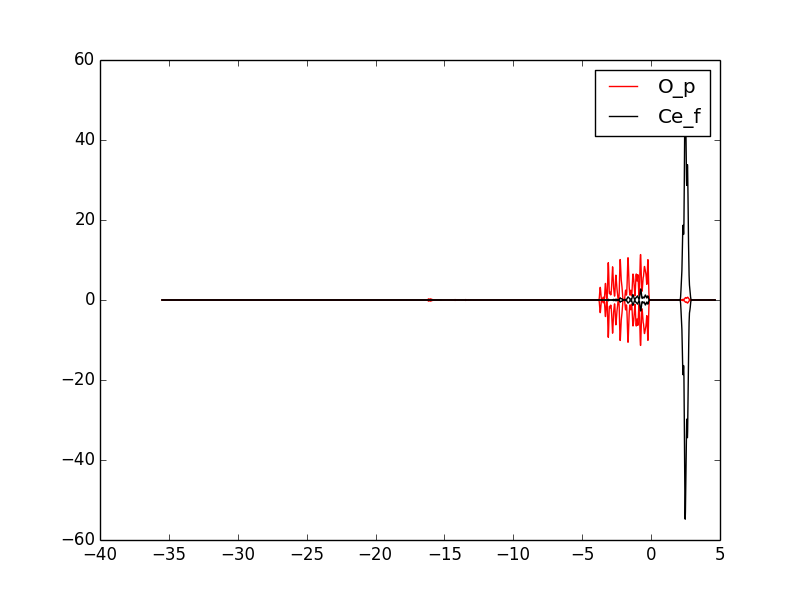
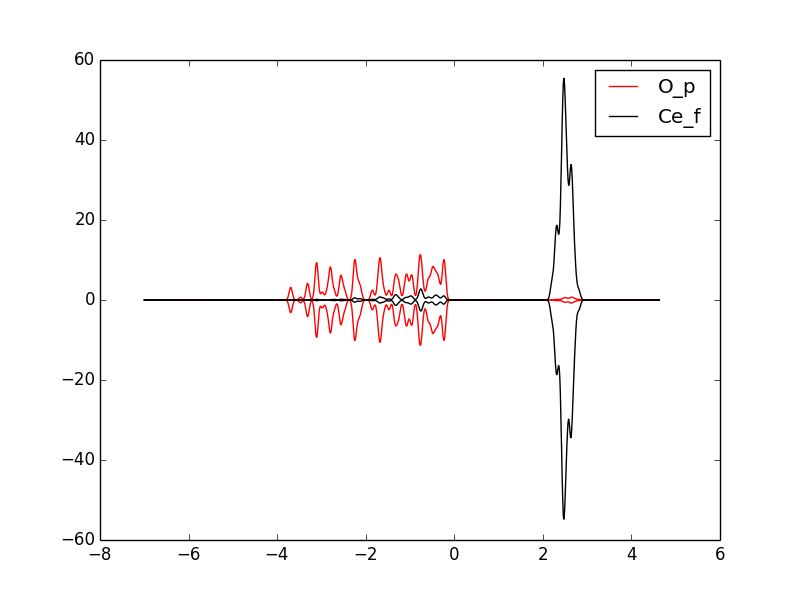
finish module writing for dos code

diff --git a/VASP/dos-lib/doslib/plot.py b/VASP/dos-lib/doslib/plot.py
@@ -14,6 +14,9 @@ class plot:
       self.dos=control.dos
       self.par_symbol=['s','p','d','f']
   def pdos(self):
+      if not self.control.run_pdos:
+         return 0
+
       dos=self.dos
       atom=self.atom
       loc_up=dos.loc_up
@@ -21,16 +24,9 @@ class plot:
       control=self.control
       simple_line_plot=self.simple_line_plot
 
-      par_symbol=self.par_symbol
-      if atom.symbol:
-        for i in range(4):
-          par_symbol[i]=atom.symbol[dos.par_element[i]]+"_"+par_symbol[i]
-      else:
-        for i in range(4):
-          par_symbol[i]="atomtype="+str(dos.par_element[i])+" "+par_symbol[i]+"_orbital"
-    
     #plot each orbital
-      if all(x!=-1 for x in dos.par_element):
+      if any(x!=-1 for x in dos.par_element):
+        par_symbol=self.par_symbol
         y=[]
         line_label=[]
         line_color=['y','y','r','r','b','b','k','k']
@@ -39,7 +35,10 @@ class plot:
             y+=[dos.par_orbital[i][:,0],dos.par_orbital[i][:,1]]
           else:
             y+=[None,None]
-          line_label+=[par_symbol[i],None]
+          if atom.symbol:
+            line_label+=[atom.symbol[dos.par_element[i]]+"_"+par_symbol[i],None]
+          else:
+            line_label+=["atomtype="+str(dos.par_element[i])+" "+par_symbol[i]+"_orbital",None]
         simple_line_plot("pdf_orbital",dos.Xenergy,y,loc_down,loc_up,line_color,line_label)
         del y, line_label, line_color
     
@@ -51,17 +50,18 @@ class plot:
         simple_line_plot("d_decompose",dos.Xenergy,y,loc_down,loc_up,line_color,line_label)
         del y, line_label, line_color
     
-      y=[]
-      line_label=[]
-      line_color=[]
-      for i in range(atom.ntype):
-        y+=[dos.perspecies[:,i]]
-        line_label+=["species "+str(i)]
-        line_color+=[None]
-      if atom.symbol:
-        line_label+=[atom.symbol[i]]
-      simple_line_plot("perspecies",dos.Xenergy,y,loc_down,loc_up,line_color,line_label)
-      del y, line_label, line_color
+      if self.control.perspecies:
+        y=[]
+        line_label=[]
+        line_color=[]
+        for i in range(atom.ntype):
+          y+=[dos.perspecies[:,i]]
+          line_label+=["species "+str(i)]
+          line_color+=[None]
+        if atom.symbol:
+          line_label+=[atom.symbol[i]]
+        simple_line_plot("perspecies",dos.Xenergy,y,loc_down,loc_up,line_color,line_label)
+        del y, line_label, line_color
     
   def plot_tot_dos(self):
       y=[self.dos.dos0[:,0],self.dos.dos0[:,1]]

diff --git a/VASP/dos-lib/slab_plot.py b/VASP/dos-lib/slab_plot.py
@@ -1,0 +1,53 @@
+def plot_atom_start(self):
+  rad=12
+  scale=1/23.*2.
+  atom=self.atom
+  zmin=np.amin(atom.positions[:,2])
+  zmax=np.amax(atom.positions[:,2])
+  lz=zmax-zmin
+  zcenter=(zmin+zmax)*0.5
+  Oplot=200
+  Ceplot=300
+  for i in ('zmin', 'zmax', 'lz','zcenter','Oplot','Ceplot','scale'):
+     self.plot_atom_dict[i] = locals()[i]
+
+def plot_atom(self,atomi):
+  Oplot=self.plot_atom_dict['Oplot']
+  Ceplot=self.plot_atom_dict['Ceplot']
+  zcenter=self.plot_atom_dict['zcenter']
+  zmin=self.plot_atom_dict['zmin']
+  scale=self.plot_atom_dict['scale']
+  lz=self.plot_atom_dict['lz']
+
+  atom=self.atom
+  dos=self.dos
+
+  y=dos.tot[dos.loc_down:dos.loc_up,0]+dos.tot[dos.loc_down:dos.loc_up,1]
+  color =self.cm(2.*abs(atom.positions[atomi,2]-zcenter)/lz)  # color will now be an RGBA tuple
+  y_off=(atom.positions[atomi,2]-zmin)/lz
+  if (atom.species[atomi]==dos.par_element[1]):
+    plt.figure(Oplot)
+    ymax=np.amax(y)
+    pl.plot(dos.Xenergy[dos.loc_down:dos.loc_up],y_off+y/ymax*scale,c=color)
+  if (atom.species[atomi]==dos.par_element[3]):
+    plt.figure(Ceplot)
+    ymax=np.amax(y)
+    pl.plot(dos.Xenergy[dos.loc_down:dos.loc_up],y_off+y/ymax*scale,c=color)
+
+def plot_atom_end(self):
+  Oplot=self.plot_atom_dict['Oplot']
+  Ceplot=self.plot_atom_dict['Ceplot']
+  zcenter=self.plot_atom_dict['zcenter']
+  zmin=self.plot_atom_dict['zmin']
+  scale=self.plot_atom_dict['scale']
+
+  plt.figure(Oplot)
+  plt.ylim(0,1+scale)
+  plt.show()
+  plt.savefig("DOS_O_INSIDE.png")
+  plt.close()
+
+  plt.figure(Ceplot)
+  plt.ylim(0,1+scale)
+  plt.savefig("DOS_Ce_INSIDE.png")
+  plt.close()

diff --git a/VASP/dos-lib/peratom.py b/VASP/dos-lib/peratom.py
@@ -1,0 +1,49 @@
+from doslib.control import *
+from doslib.iodos import *
+from doslib.data import *
+from doslib.plot import *
+from doslib.analysis import *
+
+import sys
+
+#here, define your own per-atom plot function, as in slab-plot.py
+import slab_plot as sp
+plot.plot_atom_start=sp.plot_atom_start
+plot.plot_atom=sp.plot_atom
+plot.plot_atom_end=sp.plot_atom_end
+
+def main():
+  #initialization
+  atoms=atom_data()
+  dos=dos_data()
+  cont=control_knob(sys.argv,atoms,dos)
+  plt=plot(cont)
+  ana=analysis(atoms,dos)
+
+  #read in overall dos
+  io=iodos(cont,plt)
+  io.read_poscar()
+  io.read_tot_dosfile()
+  ana.bandgap()
+  ana.peak_finder(-32.5,5)
+
+  #write
+  if cont.write_DOS0:
+      io.write_tot_dosfile()
+  io.delete_tot_dosfile()
+
+  #read in partial dos
+  io.read_pdos()
+  plt.pdos()
+  if cont.write_PDOS:
+      io.write_pdosfile()
+  io.delete_pdosfile()
+
+  #debug
+  #dumpclean(cont.__dict__)
+  #dumpclean(io.__dict__)
+  #dumpclean(atoms.__dict__)
+  #dumpclean(dos.__dict__)
+
+if __name__ == '__main__':
+  main()

diff --git a/VASP/dos-lib/doslib/one_dos.py b/VASP/dos-lib/doslib/one_dos.py
@@ -1,0 +1,41 @@
+from control import *
+from iodos import *
+from data import *
+from plot import *
+from analysis import *
+
+import sys
+def main():
+  #initialization
+  atoms=atom_data()
+  dos=dos_data()
+  cont=control_knob(sys.argv,atoms,dos)
+  plt=plot(cont)
+  ana=analysis(atoms,dos)
+
+  #read in overall dos
+  io=iodos(cont,plt)
+  io.read_poscar()
+  io.read_tot_dosfile()
+  ana.bandgap()
+
+  #write
+  if cont.write_dos0:
+      io.write_tot_dosfile()
+  io.delete_tot_dosfile()
+
+  #read in partial dos
+  io.read_pdos()
+  plt.pdos()
+  if cont.write_pdos:
+      io.write_pdosfile()
+  io.delete_pdosfile()
+
+  #debug
+  #dumpclean(cont.__dict__)
+  #dumpclean(io.__dict__)
+  #dumpclean(atoms.__dict__)
+  #dumpclean(dos.__dict__)
+
+if __name__ == '__main__':
+  main()
